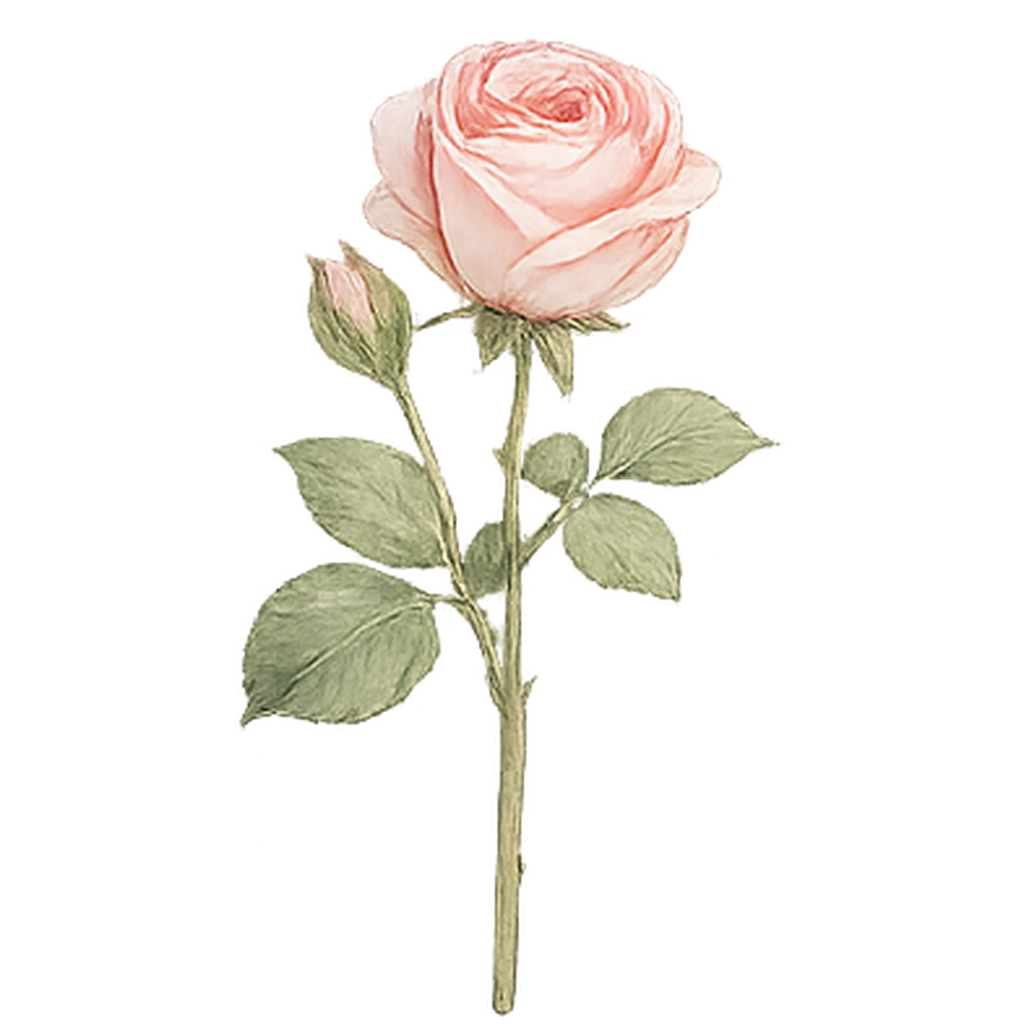
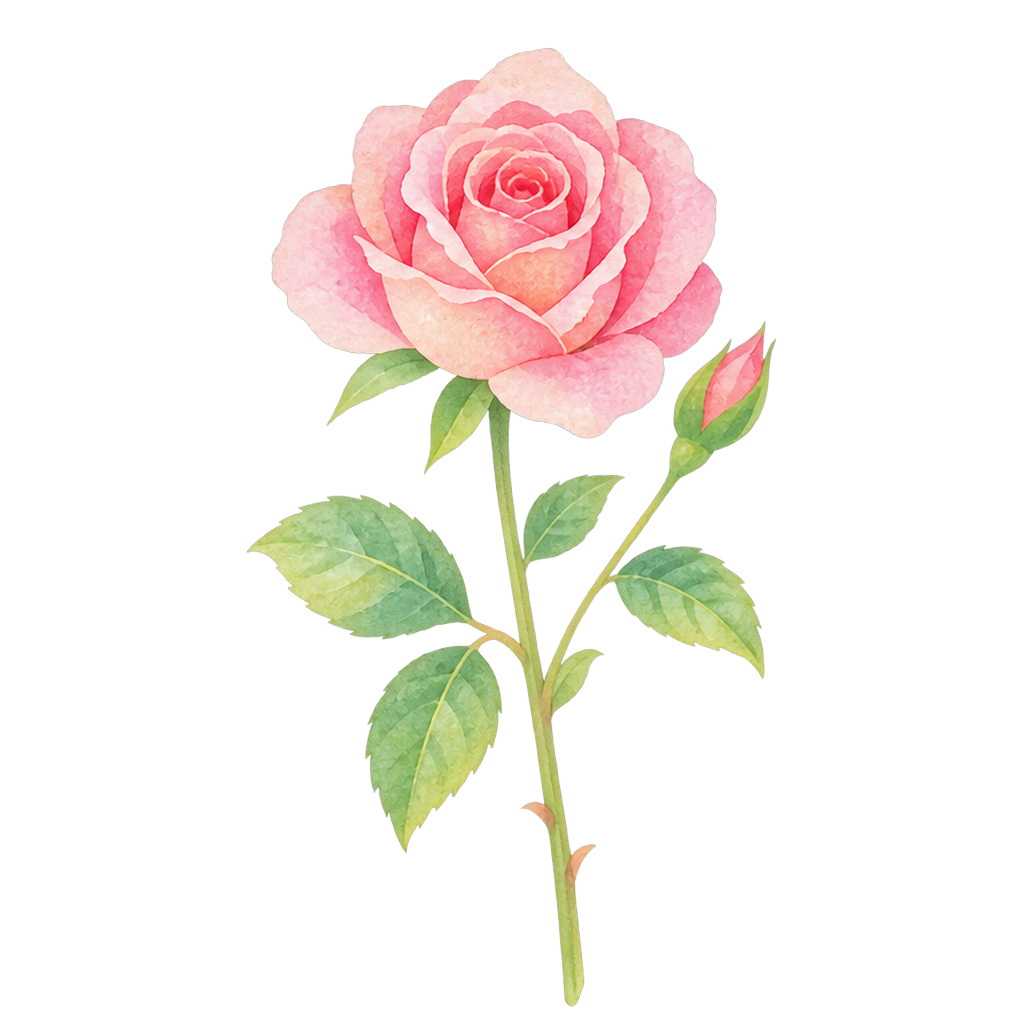
feat: バラ・ムスカリ・ユーカリを「淡い北欧絵本タッチ」の新素材へ差し替え
ユーザーから提供された新画風の基準画像（3種を1枚にまとめた参考絵）
から、透過済みの各花を切り出して個別のPNGに分割した。背景はすでに
アルファ0の透明で、境界の縁もにじみではなく通常のアンチエイリアス
だったため、bounding boxで自動的に切り出せた。

- rose.png / muscari.png / eucalyptus.png（1024版・512版とも）を
  新素材に差し替え
- 差し替えに伴い、実際の絵柄の範囲が変わったので
  flowerBounds.ts の bounding box とpresence値を測り直した

タップした花と詳細表示の一致（バラ・ムスカリ・ユーカリ・アジサイ・
カーネーション）はPlaywrightで確認済み。ブーケ内でも自動フィットが
正しく効くことを確認した。

残り26種（アジサイ・チューリップ・ラナンキュラス・アネモネ・
スターチス等の「写実寄りの水彩」5種を含む）はまだ差し替えていない。

Changed region(s): [[0.2188, 0.0312, 0.75, 1.0]]

diff --git a/src/data/flowerBounds.ts b/src/data/flowerBounds.ts
@@ -52,7 +52,7 @@ export const FLOWER_BOUNDS: Record<string, FlowerBounds> = {
   cosmos: { top: 0.1309, bottom: 1.0, left: 0.2275, right: 0.6777, presence: 1.0 },
   dahlia: { top: 0.1094, bottom: 1.0, left: 0.3174, right: 0.7451, presence: 1.02 },
   delphinium: { top: 0.1562, bottom: 1.0, left: 0.3223, right: 0.5811, presence: 1.21 },
-  eucalyptus: { top: 0.0156, bottom: 0.998, left: 0.3047, right: 0.6943, presence: 1.05 },
+  eucalyptus: { top: 0.0469, bottom: 0.9834, left: 0.2812, right: 0.7188, presence: 1.01 },
   freesia: { top: 0.1992, bottom: 1.0, left: 0.3164, right: 0.6475, presence: 1.11 },
   gentian: { top: 0.208, bottom: 1.0, left: 0.3506, right: 0.6338, presence: 1.18 },
   gerbera: { top: 0.0713, bottom: 1.0, left: 0.2529, right: 0.7363, presence: 0.98 },
@@ -61,12 +61,12 @@ export const FLOWER_BOUNDS: Record<string, FlowerBounds> = {
   lily: { top: 0.0977, bottom: 1.0, left: 0.1836, right: 0.7363, presence: 0.93 },
   lisianthus: { top: 0.1094, bottom: 1.0, left: 0.2617, right: 0.7656, presence: 0.96 },
   marguerite: { top: 0.125, bottom: 1.0, left: 0.2432, right: 0.7686, presence: 0.95 },
-  muscari: { top: 0.0693, bottom: 0.9961, left: 0.3164, right: 0.6885, presence: 1.07 },
+  muscari: { top: 0.0449, bottom: 0.9844, left: 0.3545, right: 0.6445, presence: 1.17 },
   narcissus: { top: 0.1426, bottom: 1.0, left: 0.2734, right: 0.6631, presence: 1.05 },
   poinsettia: { top: 0.0996, bottom: 1.0, left: 0.292, right: 0.7246, presence: 1.01 },
   pompon: { top: 0.1797, bottom: 1.0, left: 0.3428, right: 0.6514, presence: 1.14 },
   ranunculus: { top: 0.0322, bottom: 0.998, left: 0.2783, right: 0.7207, presence: 1.01 },
-  rose: { top: 0.0273, bottom: 0.998, left: 0.2285, right: 0.7686, presence: 0.94 },
+  rose: { top: 0.0459, bottom: 0.9844, left: 0.2402, right: 0.7588, presence: 0.95 },
   ruscus: { top: 0.1709, bottom: 1.0, left: 0.3848, right: 0.6143, presence: 1.25 },
   solidago: { top: 0.124, bottom: 1.0, left: 0.2402, right: 0.7764, presence: 0.94 },
   statice: { top: 0.0371, bottom: 0.999, left: 0.2324, right: 0.791, presence: 0.93 },
